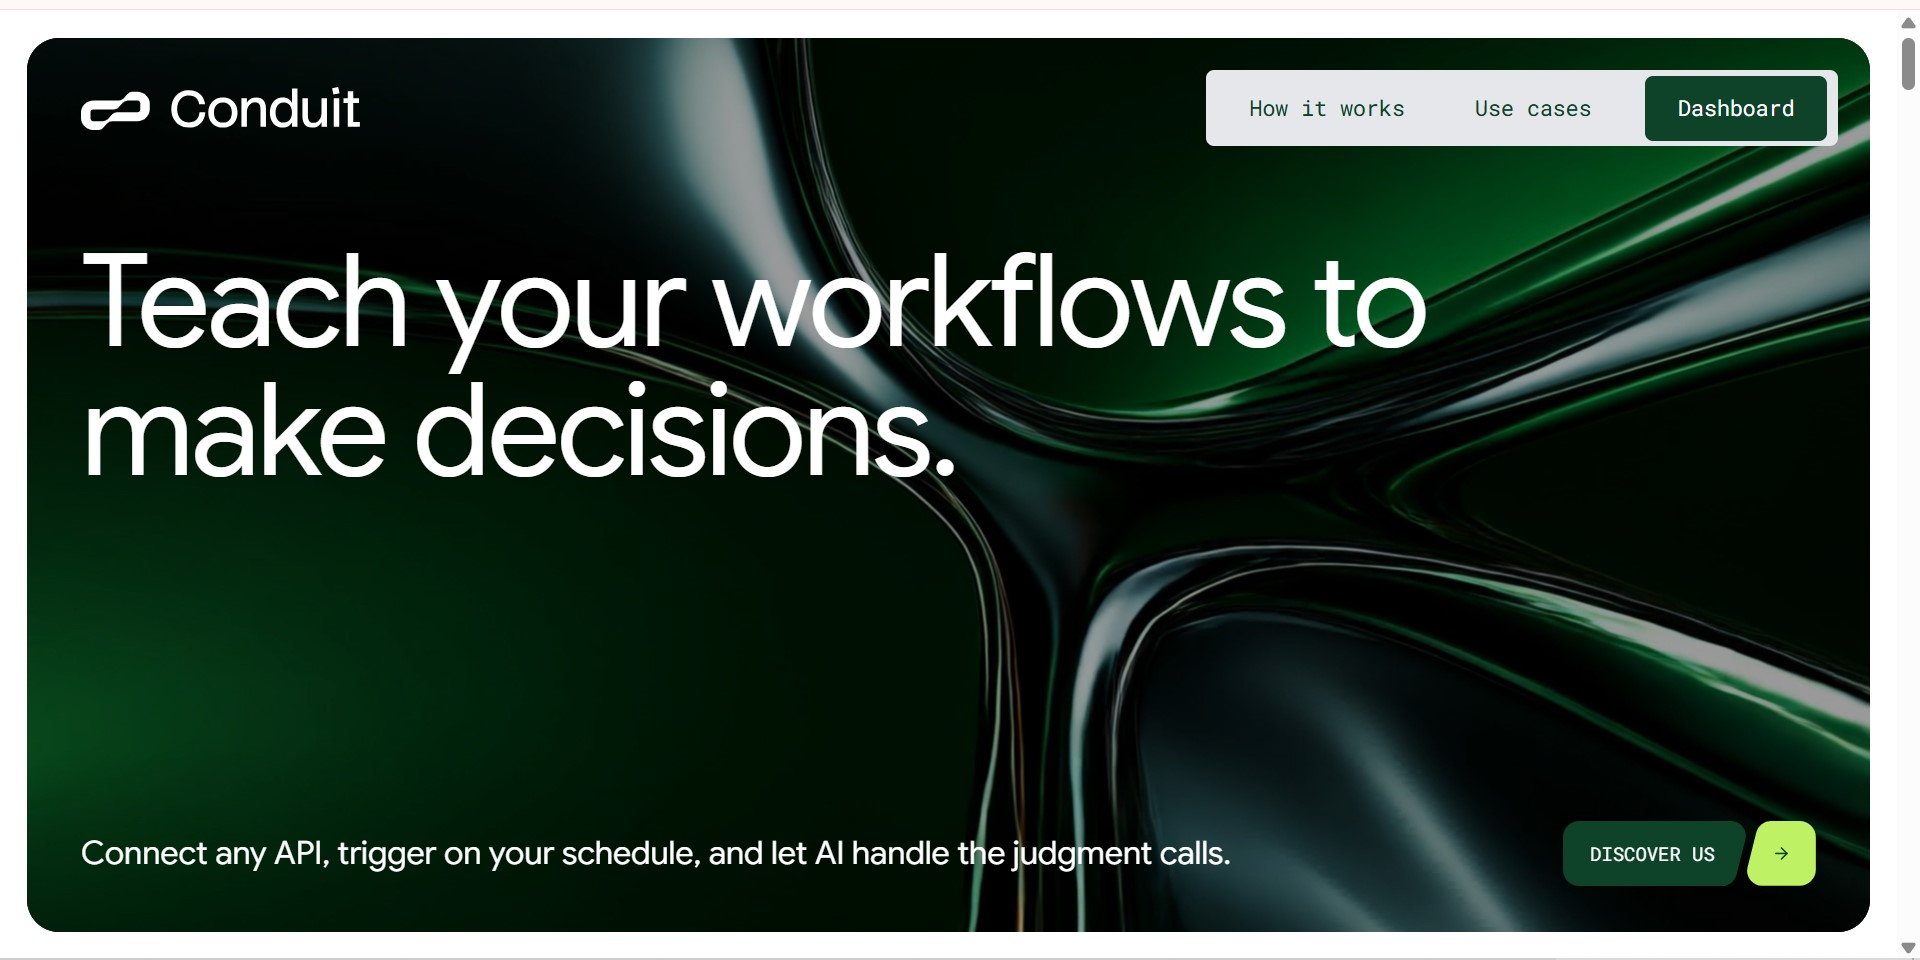
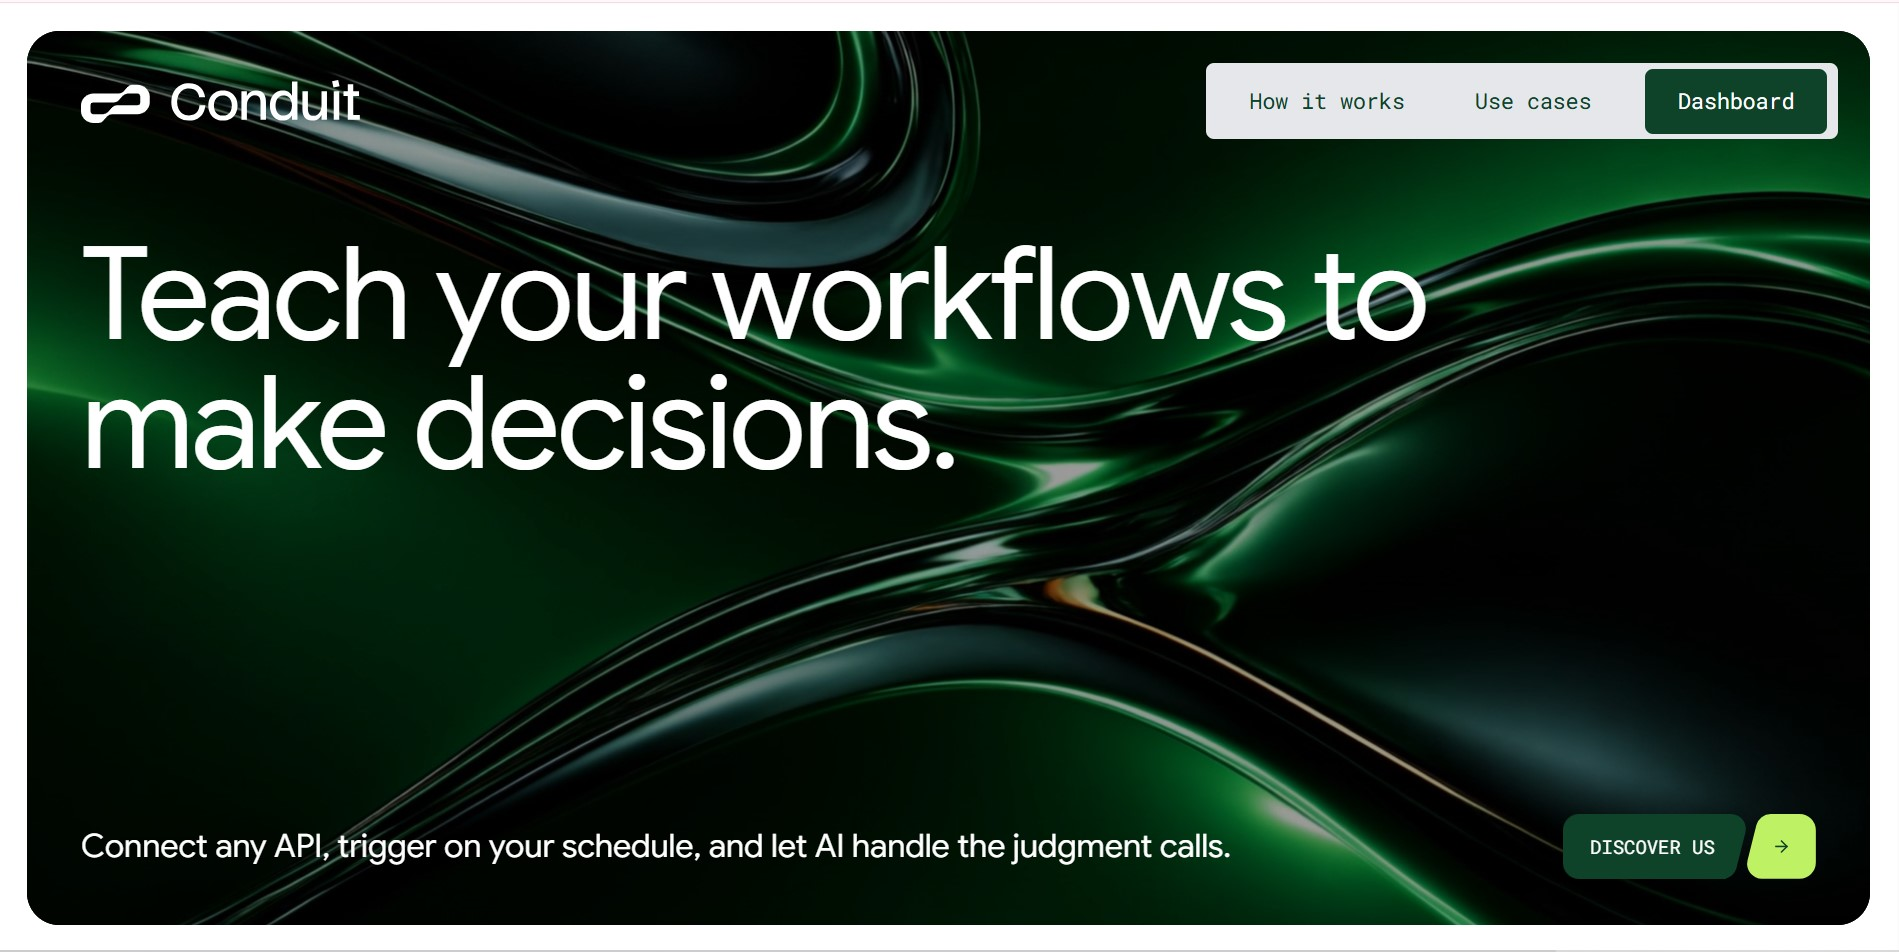
Projects section

diff --git a/src/sections/Projects.jsx b/src/sections/Projects.jsx
@@ -1,86 +1,8 @@
-import { ArrowUpRight, Github } from 'lucide-react'
+import { ArrowUpRight } from 'lucide-react'
 
 import AnimatedBorderButton from "../components/AnimatedBorderButton"
-
-const project = [
-  {
-    title: "glycotrac",
-    description: "Medication reminders, refill alerts and symptom tracking for people living with diabetes. Built with Next.js, TypeScript, Supabase and GSAP.",
-    image: "/projects/glycotrac.jpg",
-    tags: ["Next.js", "TypeScript", "Supabase", "GSAP"],
-    link: "https://glycotrac.vercel.app/",
-    github: "https://github.com/deepracerchichi/glycotrac",
-  },
-  {
-    title: "Conduit (in progress)",
-    description: "AI workflow automation platform. Chain API calls and AI steps into pipelines that run on a schedule, a webhook, or a click, with durable retries, encrypted credentials, and live run history. React + TypeScript + Express + MongoDB + BullMQ.",
-    image: "/projects/conduit.jpg",
-    tags: ["React", "TypeScript", "Express", "MongoDB", "BullMQ"],
-    link: "https://github.com/deepracerchichi/connuit",
-    github: "https://github.com/deepracerchichi/connuit",
-  },
-  {
-    title: "nestFind",
-    description: "A full-stack real estate listing platform with real-time buyer-seller messaging, JWT authentication, and moderator-reviewed listing verification",
-    image: "/projects/nestFind.jpg",
-    tags: ["Next.js", "Express", "MongoDB", "Socket.IO"],
-    link: "https://nest-find-navy.vercel.app/",
-    github: "https://github.com/deepracerchichi/nestFind",
-  },
-  {
-    title: "The Bakery",
-    description: "A webapp  for all my personal thoughts and articles I feel like writing on the go",
-    image: "/projects/thebakery.jpg",
-    tags: ["Nestjs", "Vercel Blob", "MongoDB"],
-    link: "https://in-the-bakery.vercel.app/",
-    github: "https://github.com/deepracerchichi/the-bakery"
-  },
-
-  {
-    title: "Sheila",
-    description: "A note taking web application with create delete and update functionalities and rate limiting",
-    image: "/projects/project1.png",
-    tags: [ "React", "Express", "Upstash", "MongoDB"],
-    link: "https://sheila-mern-webapp.onrender.com/",
-    github: "https://github.com/deepracerchichi/sheila-mern-webapp",
-  },
-  {
-    title: "The Camel",
-    description: "A Modern bar website built with GSAP. Features parallax scrolling, animated transitions, and dynamic content reveals",
-    image: "/projects/project2.png",
-    tags: [ "React", "GSAP", "Zustand", "Tailwind"],
-    link: "https://thecamel-bar.vercel.app/",
-    github: "https://github.com/deepracerchichi/thecamel-bar",
-  },
-  {
-    title: "Listerr",
-    description: "An application where companies can keep track of their employees and update status",
-    image: "/projects/project3.png",
-    tags: [ "React", "PostGreSQL", "Render", "Vercel"],
-    link: "https://listerr-list.vercel.app/",
-    github: "https://github.com/deepracerchichi/LISTERR-POSTGRES",
-  },
-  {
-    title: "Altread",
-    description: "A mobile application where users can log in to track and update info for books they have read",
-    image: "/projects/project4.png",
-    tags: ["React Native", "TypeScript", "Appwrite", "ContextAPI"],
-    link: "https://github.com/deepracerchichi/altread",
-    github: "https://github.com/deepracerchichi/altread",
-  },
-
-  {
-    title: "Coupon Dash",
-    description: "A one-tap endless runner built with vanilla HTML5 Canvas and JavaScript for Vouchermatic's Game Development Challenge — dodge gaps, collect coupons, and beat your best score.",
-    image: "/projects/coup.jpg",
-    tags: ["JavaScript", "HTML5 Canvas", "Web Audio API", "Game Dev"],
-    link: "https://coupon-dash.vercel.app",
-    github: "https://github.com/deepracerchichi/coupon-dash",
-  },
-
-
-
-]
+import ProjectCard from "../components/ProjectCard"
+import { projects, FEATURED_COUNT } from "../data/projects"
 
 const Projects = () => {
   return (
@@ -110,69 +32,14 @@ const Projects = () => {
         {/* Project Grid */}
 
         <div className="grid md:grid-cols-2 gap-8">
-          {
-            project.map((proj, idx) => (
-              <div 
-                key={idx} 
-                className='group glass rounded-2xl overflow-hidden animate-fade-in md:row-span-1'
-                style={{ animationDelay: `${(idx + 1) * 100}ms`}}
-                >
-
-                <div className='relative overflow-hidden aspect-video'>
-                  <img 
-                    src={proj.image} 
-                    alt={proj.title}
-                    className='w-full h-full object-contain transition-transform duration-700 group-hover:scale-110'
-                  />
-
-                  <div 
-                   className="absolute inset-0 bg-linear-to-t from-card via-card/50 to-transparent opacity-60"
-                  />
-
-                  {/* Overlay Links */}
-                  <div className="absolute inset-0 flex items-center justify-center gap-4 opacity-0 group-hover:opacity-100 transition-opacity duration-300">
-                    <a href={proj.link} className='p-3 rounded-full glass hover:bg-primary hover:text-primary-foreground transition-all '>
-                      <ArrowUpRight className='w-5 h-5'/>
-                    </a>
-
-                    <a href={proj.github} className='p-3 rounded-full glass hover:bg-primary hover:text-primary-foreground transition-all '>
-                      <Github className='w-5 h-5' />
-                    </a>
-                  </div>
-                </div>
-                
-                {/*content */}
-                <div className='p-6 space-y-4'>
-                  <div className='flex items-start justify-between'>
-                    <h3 className='text-xl font-semibold group-hover:text-primary '>
-                      {proj.title}
-                    </h3>
-                    <ArrowUpRight 
-                      className="w-5 h-5 text-muted-foreground group-hover:translate-x-1 group-hover:-translate-y-1 transition-all"
-                    />
-                  </div>
-                  <p className='text-muted-foreground text-sm'>
-                    {proj.description}
-                  </p>
-                  <div className='flex flex-wrap gap-2'>
-                    {proj.tags.map((tag, tagIdx) => (
-                      <span 
-                      key={tagIdx}
-                      className='px-4 py-1.5 rounded-full bg-surface text-xs font-medium border border-border/50 text-muted-foreground hover:border-primary/50 hover:text-primary transition-all duration-300'>
-                        {tag}
-                      </span>
-                    ))}
-                  </div>
-                </div>
-              </div>
-            ))
-          }
-
+          {projects.slice(0, FEATURED_COUNT).map((proj, idx) => (
+            <ProjectCard key={idx} proj={proj} idx={idx} />
+          ))}
         </div>
 
         {/* View All CTA */}
         <div className="text-center mt-12 animate-fade-in animation-delay-500">
-          <AnimatedBorderButton>
+          <AnimatedBorderButton onClick={() => { window.location.hash = '/projects' }}>
             View All Projects
             <ArrowUpRight className="w-5 h-5"/>
           </AnimatedBorderButton>

diff --git a/src/data/projects.js b/src/data/projects.js
@@ -1,0 +1,79 @@
+// Add new projects at the TOP. The home page shows the first FEATURED_COUNT.
+export const FEATURED_COUNT = 4
+
+export const projects = [
+  {
+    title: "glycotrac",
+    description: "Medication reminders, refill alerts and symptom tracking for people living with diabetes. Built with Next.js, TypeScript, Supabase and GSAP.",
+    image: "/projects/glycotrac.jpg",
+    tags: ["Next.js", "TypeScript", "Supabase", "GSAP"],
+    link: "https://glycotrac.vercel.app/",
+    github: "https://github.com/deepracerchichi/glycotrac",
+  },
+  {
+    title: "Conduit (in progress)",
+    description: "AI workflow automation platform. Chain API calls and AI steps into pipelines that run on a schedule, a webhook, or a click, with durable retries, encrypted credentials, and live run history. React + TypeScript + Express + MongoDB + BullMQ.",
+    image: "/projects/conduit.jpg",
+    tags: ["React", "TypeScript", "Express", "MongoDB", "BullMQ"],
+    link: "https://github.com/deepracerchichi/connuit",
+    github: "https://github.com/deepracerchichi/connuit",
+  },
+  {
+    title: "nestFind",
+    description: "A full-stack real estate listing platform with real-time buyer-seller messaging, JWT authentication, and moderator-reviewed listing verification",
+    image: "/projects/nestFind.jpg",
+    tags: ["Next.js", "Express", "MongoDB", "Socket.IO"],
+    link: "https://nest-find-navy.vercel.app/",
+    github: "https://github.com/deepracerchichi/nestFind",
+  },
+  {
+    title: "The Bakery",
+    description: "A webapp  for all my personal thoughts and articles I feel like writing on the go",
+    image: "/projects/thebakery.jpg",
+    tags: ["Nestjs", "Vercel Blob", "MongoDB"],
+    link: "https://in-the-bakery.vercel.app/",
+    github: "https://github.com/deepracerchichi/the-bakery"
+  },
+
+  {
+    title: "Sheila",
+    description: "A note taking web application with create delete and update functionalities and rate limiting",
+    image: "/projects/project1.png",
+    tags: [ "React", "Express", "Upstash", "MongoDB"],
+    link: "https://sheila-mern-webapp.onrender.com/",
+    github: "https://github.com/deepracerchichi/sheila-mern-webapp",
+  },
+  {
+    title: "The Camel",
+    description: "A Modern bar website built with GSAP. Features parallax scrolling, animated transitions, and dynamic content reveals",
+    image: "/projects/project2.png",
+    tags: [ "React", "GSAP", "Zustand", "Tailwind"],
+    link: "https://thecamel-bar.vercel.app/",
+    github: "https://github.com/deepracerchichi/thecamel-bar",
+  },
+  {
+    title: "Listerr",
+    description: "An application where companies can keep track of their employees and update status",
+    image: "/projects/project3.png",
+    tags: [ "React", "PostGreSQL", "Render", "Vercel"],
+    link: "https://listerr-list.vercel.app/",
+    github: "https://github.com/deepracerchichi/LISTERR-POSTGRES",
+  },
+  {
+    title: "Altread",
+    description: "A mobile application where users can log in to track and update info for books they have read",
+    image: "/projects/project4.png",
+    tags: ["React Native", "TypeScript", "Appwrite", "ContextAPI"],
+    link: "https://github.com/deepracerchichi/altread",
+    github: "https://github.com/deepracerchichi/altread",
+  },
+
+  {
+    title: "Coupon Dash",
+    description: "A one-tap endless runner built with vanilla HTML5 Canvas and JavaScript for Vouchermatic's Game Development Challenge — dodge gaps, collect coupons, and beat your best score.",
+    image: "/projects/coup.jpg",
+    tags: ["JavaScript", "HTML5 Canvas", "Web Audio API", "Game Dev"],
+    link: "https://coupon-dash.vercel.app",
+    github: "https://github.com/deepracerchichi/coupon-dash",
+  },
+]

diff --git a/src/components/ProjectCard.jsx b/src/components/ProjectCard.jsx
@@ -1,0 +1,48 @@
+import { ArrowUpRight, Github } from 'lucide-react'
+
+// gsap: card is animated by a parent GSAP timeline instead of the CSS fade-in
+const ProjectCard = ({ proj, idx = 0, gsap = false }) => (
+  <div
+    className={`group glass rounded-2xl overflow-hidden md:row-span-1 ${gsap ? '' : 'animate-fade-in'}`}
+    style={gsap ? undefined : { animationDelay: `${(idx + 1) * 100}ms` }}
+    data-all-card={gsap ? '' : undefined}
+  >
+    <div className='relative overflow-hidden aspect-video'>
+      <img
+        src={proj.image}
+        alt={proj.title}
+        className='w-full h-full object-contain transition-transform duration-700 group-hover:scale-110'
+      />
+      <div className="absolute inset-0 bg-linear-to-t from-card via-card/50 to-transparent opacity-60" />
+
+      {/* Overlay Links */}
+      <div className="absolute inset-0 flex items-center justify-center gap-4 opacity-0 group-hover:opacity-100 transition-opacity duration-300">
+        <a href={proj.link} className='p-3 rounded-full glass hover:bg-primary hover:text-primary-foreground transition-all'>
+          <ArrowUpRight className='w-5 h-5' />
+        </a>
+        <a href={proj.github} className='p-3 rounded-full glass hover:bg-primary hover:text-primary-foreground transition-all'>
+          <Github className='w-5 h-5' />
+        </a>
+      </div>
+    </div>
+
+    <div className='p-6 space-y-4'>
+      <div className='flex items-start justify-between'>
+        <h3 className='text-xl font-semibold group-hover:text-primary'>{proj.title}</h3>
+        <ArrowUpRight className="w-5 h-5 text-muted-foreground group-hover:translate-x-1 group-hover:-translate-y-1 transition-all" />
+      </div>
+      <p className='text-muted-foreground text-sm'>{proj.description}</p>
+      <div className='flex flex-wrap gap-2'>
+        {proj.tags.map((tag, tagIdx) => (
+          <span
+            key={tagIdx}
+            className='px-4 py-1.5 rounded-full bg-surface text-xs font-medium border border-border/50 text-muted-foreground hover:border-primary/50 hover:text-primary transition-all duration-300'>
+            {tag}
+          </span>
+        ))}
+      </div>
+    </div>
+  </div>
+)
+
+export default ProjectCard

diff --git a/src/sections/AllProjects.jsx b/src/sections/AllProjects.jsx
@@ -1,0 +1,60 @@
+import { useRef } from 'react'
+import { ArrowLeft } from 'lucide-react'
+import gsap from 'gsap'
+import { useGSAP } from '@gsap/react'
+import ProjectCard from '../components/ProjectCard'
+import { projects } from '../data/projects'
+
+const AllProjects = () => {
+  const ref = useRef(null)
+
+  useGSAP(() => {
+    window.scrollTo(0, 0)
+    // CSS fade-in is replaced by a GSAP stagger so cards animate as one sequence
+    gsap.from('[data-all-card]', {
+      y: 40,
+      opacity: 0,
+      duration: 0.8,
+      ease: 'power3.out',
+      stagger: 0.1,
+      delay: 0.3,
+    })
+  }, { scope: ref })
+
+  return (
+    <section ref={ref} id="all-projects" className="pt-40 pb-32 relative overflow-hidden min-h-screen">
+      <div className="absolute top-1/4 right-0 w-96 h-96 bg-primary/5 rounded-full blur-3xl" />
+      <div className="absolute bottom-1/4 left-0 w-64 h-64 bg-highlight/5 rounded-full blur-3xl" />
+
+      <div className="container mx-auto px-6 relative z-10">
+        <a
+          href="#projects"
+          className="inline-flex items-center gap-2 text-sm text-muted-foreground hover:text-primary transition-colors mb-10 animate-fade-in"
+        >
+          <ArrowLeft className="w-4 h-4" /> Back to portfolio
+        </a>
+
+        <div className="text-center mx-auto max-w-3xl mb-16">
+          <span className="text-secondary-foreground text-sm font-medium tracking-wider uppercase animate-fade-in">
+            Archive
+          </span>
+          <h2 className="text-4xl md:text-5xl font-bold mt-4 mb-6 animate-fade-in animation-delay-100 text-secondary-foreground">
+            Everything I've
+            <span className="font-serif italic font-normal text-white"> built.</span>
+          </h2>
+          <p className="text-muted-foreground animate-fade-in animation-delay-200">
+            {projects.length} projects and counting.
+          </p>
+        </div>
+
+        <div className="grid md:grid-cols-2 gap-8">
+          {projects.map((proj, idx) => (
+            <ProjectCard key={idx} proj={proj} gsap />
+          ))}
+        </div>
+      </div>
+    </section>
+  )
+}
+
+export default AllProjects

diff --git a/src/App.jsx b/src/App.jsx
@@ -1,4 +1,4 @@
-import React from 'react'
+import React, { useEffect, useState } from 'react'
 import NavBar from "@/layout/NavBar"
 import Hero from "@/sections/Hero"
 import  About from "./sections/About"
@@ -9,9 +9,39 @@ import Testmonials from './sections/Test'
 import Footer from './layout/Footer'
 import Article from './sections/Article'
 import TechStack from './sections/TechStack'
+import AllProjects from './sections/AllProjects'
 
+
+const isAllProjects = () => window.location.hash === '#/projects'
 
 const App = () => {
+  const [showAll, setShowAll] = useState(isAllProjects)
+
+  useEffect(() => {
+    const onHash = () => setShowAll(isAllProjects())
+    window.addEventListener('hashchange', onHash)
+    return () => window.removeEventListener('hashchange', onHash)
+  }, [])
+
+  // Leaving the all-projects page: the home sections remount, then jump to the clicked anchor
+  useEffect(() => {
+    if (showAll) return
+    const id = window.location.hash.slice(1)
+    if (id && !id.startsWith('/')) {
+      requestAnimationFrame(() => document.getElementById(id)?.scrollIntoView())
+    }
+  }, [showAll])
+
+  if (showAll) {
+    return (
+      <div className='min-h-screen overflow-x-hidden'>
+        <NavBar />
+        <main><AllProjects /></main>
+        <Footer />
+      </div>
+    )
+  }
+
   return (
     <div className='min-h-screen overflow-x-hidden'>
       <NavBar />
